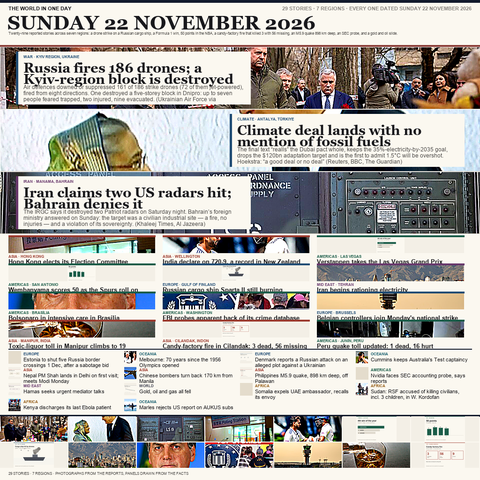
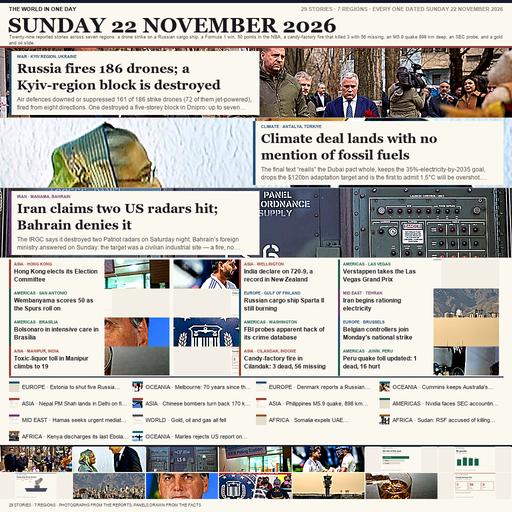
Measure every band before drawing so type cannot overlap
The page is now rendered in two passes: a measuring pass wraps each
headline at its real size and column width and gives every band exactly
the height its text needs at a line height of at least 1.25x, then a
drawing pass fills those bands. A layout audit records every glyph and
picture placement and fails the build unless margins hold, no two text
blocks overlap, every line of type sits on a flat panel rather than a
photograph, and no picture escapes the canvas.

diff --git a/README.md b/README.md
@@ -25,10 +25,41 @@ the fire, a lap ladder for the race, a price chart for the commodities. Each dra
 in its own caption, in the picture itself, so nothing on the page pretends to be a photograph of
 an event that was not photographed for us.
 
-The type sizes are chosen so the page still reads at thumbnail scale. The leads use a 29-pixel
+The type sizes are chosen so the page still reads at thumbnail scale. The leads use a 26-pixel
 serif and survive being shrunk to 300 pixels across, and that is the test that decided most of
 the layout. A story that could not be read at that size was moved into the cards, and a card that
 could not be read at that size was cut rather than left on the page as noise.
+
+## Layout rules
+
+The page is built in two passes so that it cannot overlap itself by accident. The first pass
+measures: every headline is wrapped at its real type size and its real column width, and each
+band is given exactly the height its own text needs, at a line height of at least 1.25 times the
+type size. The second pass draws into those measured bands. Nothing is placed by eye, so a line
+of type cannot run into the line below it and a band cannot swallow its neighbour.
+
+The rules the layout holds itself to:
+
+- **Nothing overlaps.** Every band is as tall as its own text requires, measured before drawing,
+  so no headline can touch the line under it and no band can cover the one beside it.
+- **Nothing leaves the page.** Every element sits inside the 18-pixel page margin; nothing is
+  drawn off the canvas edge.
+- **Type sits on paper, never on a photograph.** All text is set on a flat paper panel or on the
+  paper page. A photograph never carries type directly, so a caption is always legible.
+- **Line height is at least 1.25 times the type size**, so two lines of the same style can never
+  share a row of pixels.
+- **Headlines are never cut.** A headline always gets the lines it needs. Only summaries and
+  one-line briefs are trimmed to their band, and they are trimmed with a real ellipsis — a
+  deliberate editorial cut, the way a newspaper cuts copy to fit a column, never an accident of
+  layout.
+- **One picture per story, no exceptions.** All twenty-nine stories carry an image. Photographs
+  come from the story's own report; drawn panels say plainly on the picture that they are drawn.
+
+These rules are checked automatically before anything is submitted: a layout audit records every
+piece of type and every picture placement on the rendered page, then verifies that margins are
+held, that no two text blocks overlap, that every piece of type sits on a flat panel rather than
+on a photograph, and that no picture runs past the canvas. A render is only accepted when that
+audit comes back clean.
 
 ## The program
 
